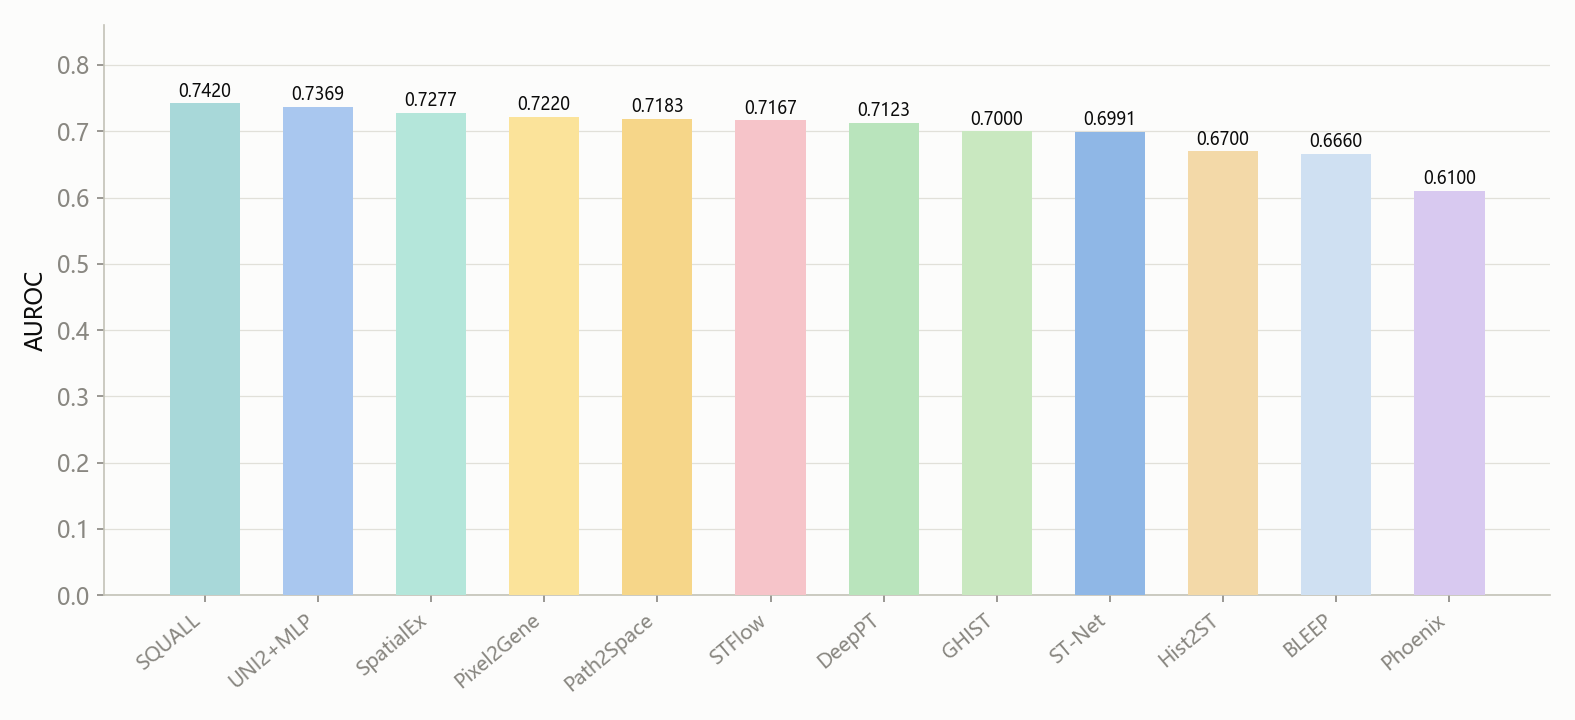
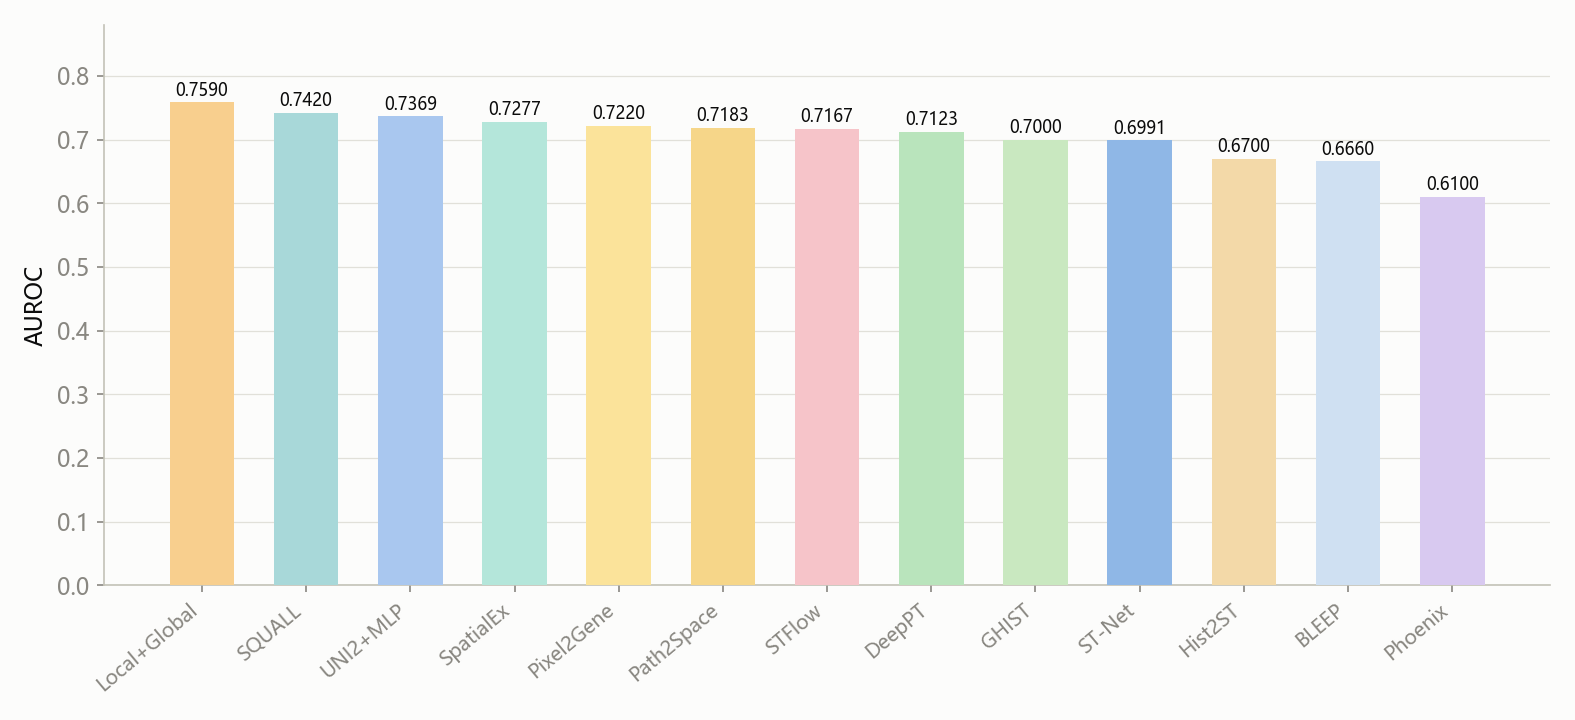
13方法柱状图: 加入Local+Global(PCC 0.3712, 旧未过滤值, 浅橙突出)

diff --git a/scripts/plot_he_all12.py b/scripts/plot_he_all12.py
@@ -47,15 +47,17 @@ METHOD_COLORS = {
     "GHIST":      "#c9e8c0",   # 浅薄荷
     "Hist2ST":    "#f3d9a8",   # 浅杏
     "BLEEP":      "#cfe0f2",   # 浅长春花蓝
+    "Local+Global": "#f8cf8e",  # 浅橙（核心创新，突出）
 }
 
-# ---- 旧未过滤占位值（未跑方法） ----
+# ---- 旧未过滤占位值（未跑方法 / LG 未跑） ----
 PLACEHOLDER = {
     "BLEEP":   (0.2131, 0.2056, 0.666),
     "Phoenix": (0.2055, 0.1585, 0.610),
     "GHIST":   (0.3164, 0.2952, 0.700),
     "Hist2ST": (0.2139, 0.2046, 0.670),
     "SQUALL":  (0.3281, 0.2873, 0.742),
+    "Local+Global": (0.3712, 0.3071, 0.759),  # 旧未过滤 LG（l1=112, l2=56），本轮调参最后跑
 }
 METHOD_DIRS = {
     "UNI2+MLP":   "bench_uni2_mlp_unf",
@@ -80,8 +82,8 @@ def get_metrics(name):
     return ph if ph else (float("nan"), float("nan"), float("nan"))
 
 
-METHODS = ["UNI2+MLP", "SQUALL", "GHIST", "SpatialEx", "Pixel2Gene", "Path2Space",
-           "DeepPT", "STFlow", "ST-Net", "BLEEP", "Hist2ST", "Phoenix"]
+METHODS = ["Local+Global", "UNI2+MLP", "SQUALL", "GHIST", "SpatialEx", "Pixel2Gene",
+           "Path2Space", "STFlow", "DeepPT", "ST-Net", "BLEEP", "Hist2ST", "Phoenix"]
 DATA = {n: get_metrics(n) for n in METHODS}
 
 CHART_CFG = [
